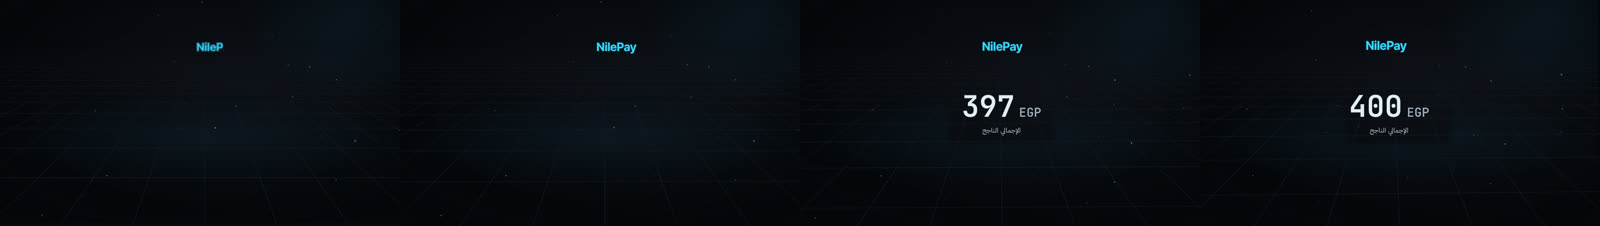
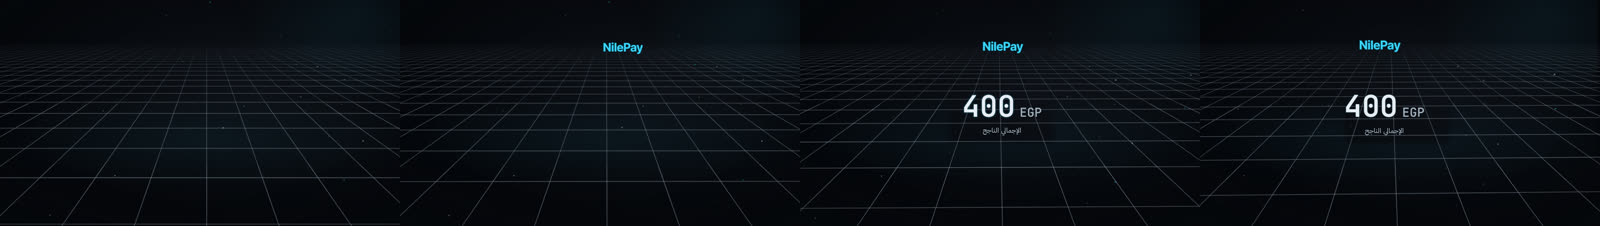
P7 fx-b: DepthLayers critic fixes (far grid one token step up: ink3; truck 1; title anchored at f4 so p0 is a bare backdrop, counter settled by p50; standard-tier p0/a1/p50/p100 evidence strip; snap PASS det 0 pending-critic; perf lite 0.132 / standard 0.186 / hero 0.173 box s/frame; Arabic QA pass)
Claude-Session: https://claude.ai/code/session_01VrU9wxU8GmuhdhWAAHnnQ8

diff --git a/studio/src/demos/fx-b.tsx b/studio/src/demos/fx-b.tsx
@@ -31,8 +31,8 @@ const demos: DemoModule = {
       },
     },
     {
-      // 4 depth planes (04 section 1.2) under a strong truck (0.7) ("following data"), so the planes separate by differential parallax:
-      // grid far (0.4, dim token colour), the 400 EGP total mid (1.0), the NilePay term near (1.3), dust fg (1.6). The fg bokeh discs
+      // 4 depth planes (04 section 1.2) under a full truck (1) ("following data"), so the planes separate by differential parallax:
+      // grid far (0.4, the ink3 token: one step above the near-invisible grid token, so the far plane reads in lite stills), the 400 EGP total mid (1.0), the NilePay term near (1.3), dust fg (1.6). The fg bokeh discs
       // come from the standard / hero tier backdrop (FX.bokeh). DOF is OFF in this demo on purpose (blur 0): the engine blurs a layer
       // as one full-frame CSS filter, measured at +0.12 box s/frame (grid) and +0.17 (dust) at standard, i.e. 0.31 / 0.49 against the
       // 0.201 budget, so a blurred plane is a hero-tier choice (hero 0.48 of 1.038). The DOF look is shown by the evidence strip
@@ -40,12 +40,12 @@ const demos: DemoModule = {
       name: 'DepthLayers',
       frames: 96,
       words: [
-        [W('DepthLayers', 1), 2, 18],
-        [W('DepthLayers', 2), 30, 54],
+        [W('DepthLayers', 1), 6, 22],
+        [W('DepthLayers', 2), 24, 42],
       ],
       shot: {
         fx_tier: 'standard',
-        camera: {move: 'truck', intensity: 0.7},
+        camera: {move: 'truck', intensity: 1},
         layers: [
           {
             component: 'DepthLayers',
@@ -58,7 +58,7 @@ const demos: DemoModule = {
               ],
             },
           },
-          {component: 'HoloGrid', props: {id: 'grid', surface: 'floor', color: 'grid'}},
+          {component: 'HoloGrid', props: {id: 'grid', surface: 'floor', color: 'ink3'}},
           {component: 'KineticWord', props: {id: 'kw-brand', text: 'NilePay', slot: 'upper-third', size: 'sub', color: 'signal', emphasis: 'term'}, at: {word: W('DepthLayers', 1), lead_frames: 2}},
           {component: 'NumberCounter', props: {id: 'total', to: {value: 400, ref: 'd:5.2:8', unit: 'EGP', decimals: 0}, format: 'currency', label: 'الإجمالي الناجح', slot: 'center'}, at: {word: W('DepthLayers', 2), lead_frames: 0}},
           {component: 'ParticleField', props: {id: 'dust', count: 90, kind: 'dust', color: 'signal', seed: 52}},

diff --git a/studio/src/components/_fx-b/evidence_jobs.py b/studio/src/components/_fx-b/evidence_jobs.py
@@ -17,7 +17,7 @@ TRF = [46, 49, 52, 54, 55, 57, 60, 63, 80]  # whip / streak: shot 1 ends at 55, 
 def jobs():
     J = [
         {"tag": "cam_std", "demo": "CameraRig", "tier": "standard", "frames": [8, 30, 60, 61, 62, 95]},
-        {"tag": "dl_std", "demo": "DepthLayers", "tier": "standard", "frames": [0, 70, 95]},
+        {"tag": "dl_std", "demo": "DepthLayers", "tier": "standard", "frames": [0, 7, 47, 70, 95]},
         {"tag": "dl_lite", "demo": "DepthLayers", "tier": "lite", "frames": [70]},
         {"tag": "dl_dof_std", "demo": "DepthLayers", "tier": "standard", "frames": [70], "planeBlur": {"grid": 0.6, "dust": 1}},
         {"tag": "dl_dof_hero", "demo": "DepthLayers", "tier": "hero", "frames": [70], "planeBlur": {"grid": 0.6, "dust": 1}},
@@ -124,11 +124,13 @@ def strips(src, out):
     if os.environ.get("FXB_ONLY") == "CameraRig":  # re-render only this strip (the other stills are not rendered)
         return
 
-    d0, d47, d95, l47 = im("dl_std", 0), im("dl_std", 70), im("dl_std", 95), im("dl_lite", 70)
+    d0, d7, d50, d47, d95, l47 = im("dl_std", 0), im("dl_std", 7), im("dl_std", 47), im("dl_std", 70), im("dl_std", 95), im("dl_lite", 70)
     ds, dh = im("dl_dof_std", 70), im("dl_dof_hero", 70)
     rows([
+        ([(d0, "p0 f0 bare backdrop (grid ink3 + dust + tier haze / bokeh)"), (d7, "a1 f7 NilePay settled"), (d50, "p50 f47 400 EGP settled"), (d95, "p100 f95 truck end")],
+         "DepthLayers STANDARD stills at the snapshot frames p0 / a1 / p50 / p100 (the lite PNG baselines show the same frames without the tier look)", {"pw": 960, "cols": 2}),
         ([(d0, "f0 truck start"), (d47, "f70"), (d95, "f95 truck end"), (onion(d0, d95), "onion f0 / f95: far 0.4 < mid 1 < near 1.3 < fg 1.6")],
-         "DepthLayers demo, standard (shipped): grid far, 400 EGP mid, NilePay near, dust fg; truck 0.7; blur 0 (cost, CR-017)", {"pw": 960, "cols": 2}),
+         "DepthLayers demo, standard (shipped): grid far, 400 EGP mid, NilePay near, dust fg; truck 1; blur 0 (cost, CR-017)", {"pw": 960, "cols": 2}),
         ([(d47, "f70 shipped demo (blur 0)"), (ds, "f70 DOF on: grid 0.6, dust 1 (standard, 4 px max)"), (dh, "f70 DOF on, hero"), (amp(d47, ds, 4), "|DOF on - off| x4: only the grid and dust change; copy never blurred")],
          "DepthLayers DOF (evidence only): standard +0.12 (grid) / +0.17 (dust) box s/frame, hero fits (0.48 of 1.038)", {"pw": 960, "cols": 2}),
         ([(l47, "f70 lite (dofBlurPx 0, DOF on = no change)"), (d47, "f70 standard (tier haze, bokeh, grain, vignette)"), (amp(l47, d47, 4), "|standard - lite| x4")],
